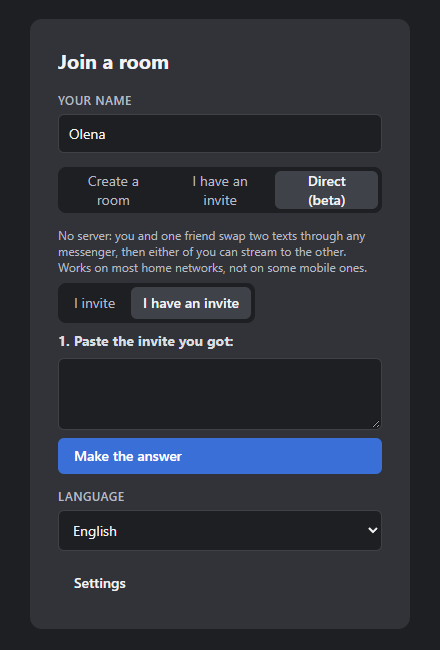
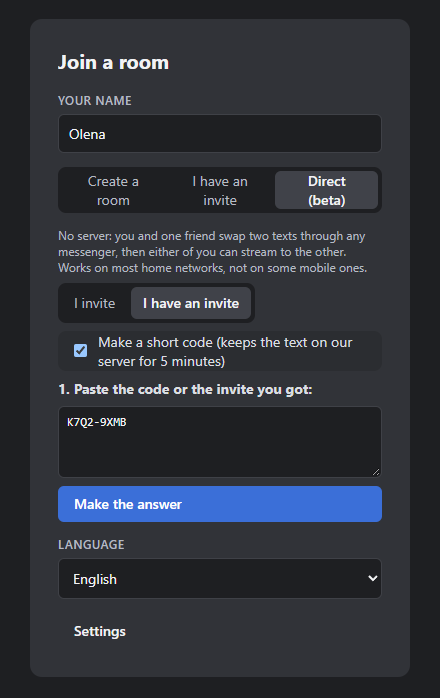
README picture of the direct form with a short code

diff --git a/crates/app/ui/app.js b/crates/app/ui/app.js
@@ -923,6 +923,8 @@ invoke('test_form').then((spec) => {
   const [mode, value, name, server] = spec.split('|');
   setTimeout(() => {
     if (mode === 'show') { state.joinOpen = true; tick(); return; }
+    // "direct|<pasted>|<name>": the direct form, invited side, with that text pasted.
+    if (mode === 'direct') { state.joinOpen = true; state.joinMode = 'direct'; state.directRole = 'answer'; state.directStep = { inviteIn: value }; $('f-name').value = name; renderJoinForm(); tick(); return; }
     // "leave|<other room code>|": leave the room we are in, then go to the other one
     // through the rail.
     if (mode === 'leave') {
